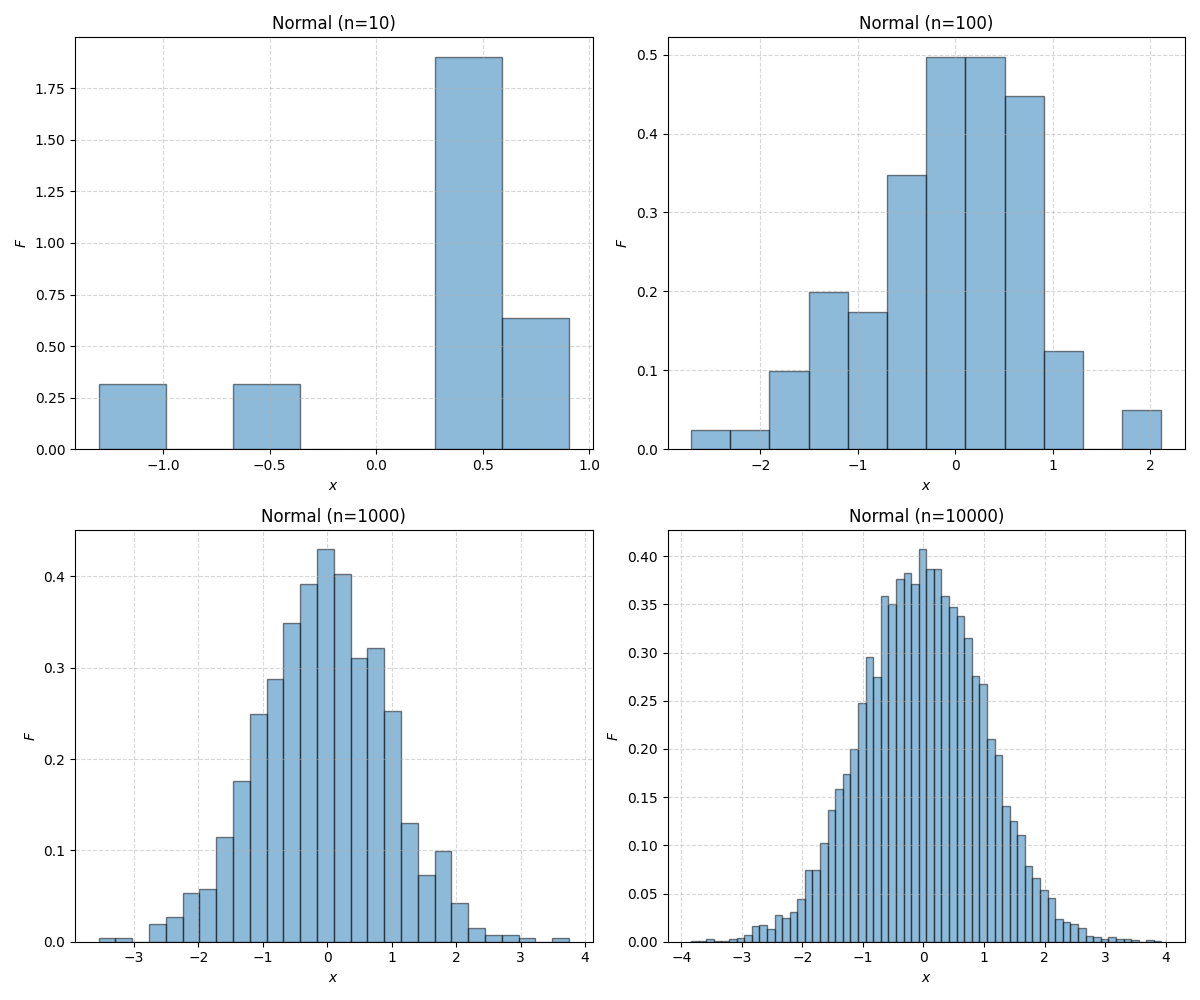
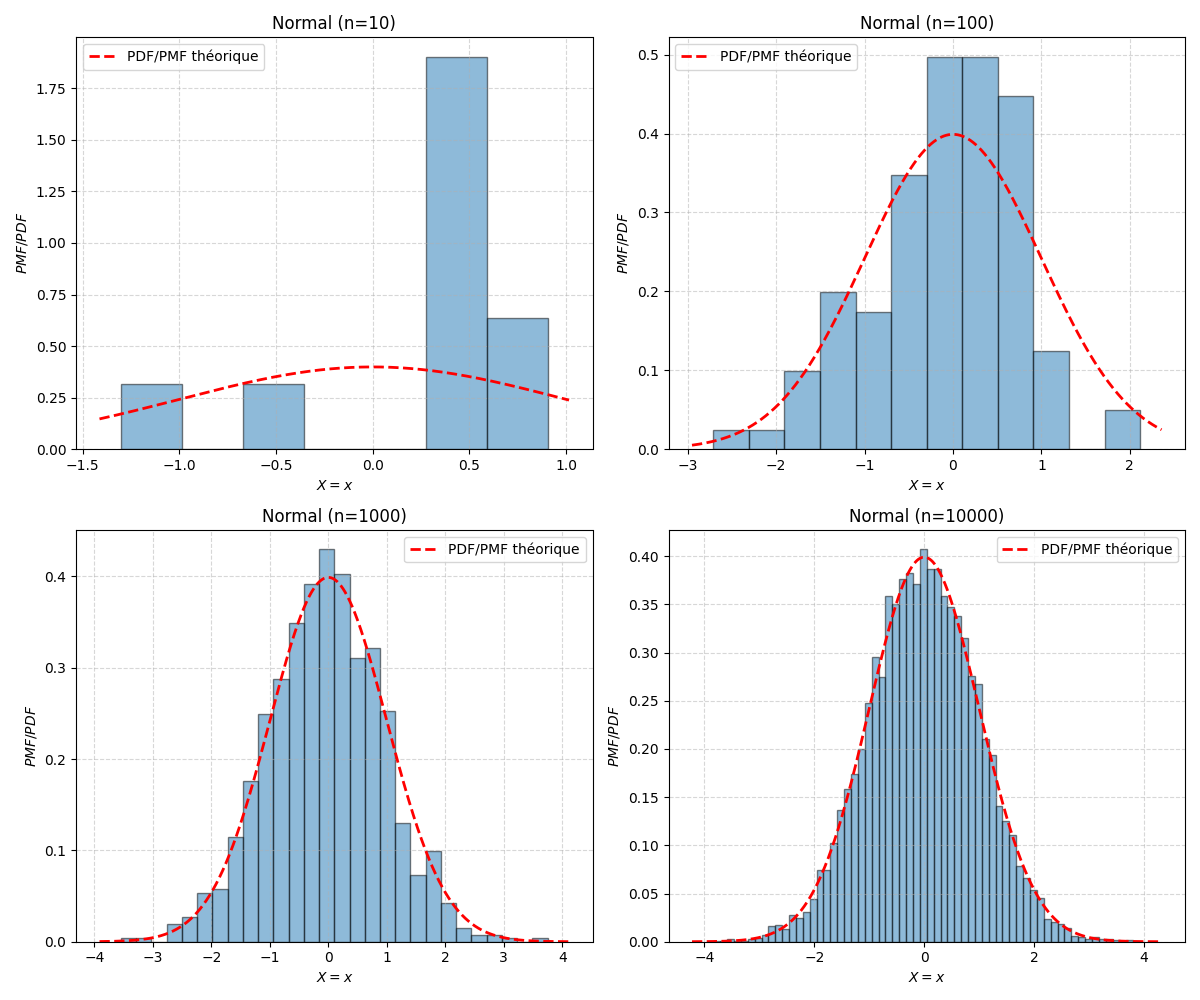
Add theorical PDF/PMF plot

diff --git a/TP01/tp_01.py b/TP01/tp_01.py
@@ -2,10 +2,6 @@ import numpy as np
 import matplotlib.pyplot as plt
 from matplotlib.ticker import MultipleLocator
 
-# TODO:
-#   - theorical law curve
-
-
 # ========================================================
 # CONSTANTS
 
@@ -26,12 +22,12 @@ def init_axes():
 
 
 def draw_on_axe(
-    axe, x, n, title, bins="auto", use_int_x_axes=False, start_at_zero=True, density=False
+    axe, x, n, title, bins="auto", use_int_x_axes=False, start_at_zero=True, func=None
 ):
-    axe.hist(x, bins=bins, edgecolor="black", alpha=0.5, density=density)
+    axe.hist(x, bins=bins, edgecolor="black", alpha=0.5, density=True)
     axe.set_title(f"{title} (n={n})")
-    axe.set_xlabel("$x$")
-    axe.set_ylabel("$F$")
+    axe.set_xlabel("$X = x$")
+    axe.set_ylabel("$PMF/PDF$")
     axe.grid(True, linestyle="--", alpha=0.5)
     if use_int_x_axes:
         axe.xaxis.set_major_locator(MultipleLocator(1))
@@ -39,12 +35,43 @@ def draw_on_axe(
         axe.set_xlim(left=0)
         axe.set_ylim(bottom=0)
 
+    if func is not None:
+        x_vals = np.linspace(axe.get_xlim()[0], axe.get_xlim()[1], 1000)
+        y_vals = func(x_vals)
 
-def print_x (x, n, esp):
-    print(f"n: {n:6}, 5 premières et 5 dernières valeurs: {x[:5]} ... {x[-5:]}")
+        if isinstance(y_vals, float) or isinstance(y_vals, int):
+            axe.axhline(
+                y=y_vals,
+                color="red",
+                linestyle="--",
+                linewidth=2,
+                label="PDF/PMF théorique",
+            )
+        else:
+            axe.plot(
+                x_vals,
+                y_vals,
+                color="red",
+                linestyle="--",
+                linewidth=2,
+                label="PDF/PMF théorique",
+            )
+        axe.legend()
+
+
+def format_value(val):
+    return str(val) if val.is_integer() else f"{val:.4}"
+
+
+def print_x(x, n, esp):
+    print(
+        f"n: {n:6}, 5 premières et 5 dernières valeurs: [{', '.join([format_value(val) for val in x[:5]])} ... {', '.join([format_value(val) for val in x[-5:]])}]"
+    )
     real = np.mean(x)
-    error = real - esp       
-    print(f"n: {n:6}, Espérance: {esp:.4f}, Moyenne constatée: {real:.4f}, Delta: {error:.4f}")
+    delta = real - esp
+    print(
+        f"n: {n:6}, Espérance théorique: {format_value(esp)}, Espérance constatée: {format_value(real)}, Delta: {format_value(delta)}"
+    )
 
 
 # ========================================================
@@ -56,9 +83,10 @@ def uniform_discrete():
     print("=== uniform_discrete ===")
     for i, n in enumerate(N_VALUES):
         MIN = 0
-        MAX = 20 
+        MAX = 20
         rng = np.random.default_rng(seed=SEED)
         x = rng.integers(low=MIN, high=MAX + 1, size=n)
+        uniform_pmf = lambda t_x: 1 / (MAX - MIN + 1)
         draw_on_axe(
             axes[i],
             x,
@@ -67,8 +95,9 @@ def uniform_discrete():
             bins=np.arange(-0.5, MAX + 1 + 0.5, 1),
             start_at_zero=False,
             use_int_x_axes=True,
+            func=uniform_pmf,
         )
-        print_x (x, n, (MIN + MAX) / 2)
+        print_x(x, n, (MIN + MAX) / 2)
     plt.tight_layout()
     plt.savefig("uniform_discrete.png")
 
@@ -80,8 +109,11 @@ def uniform_real():
         rng = np.random.default_rng(seed=SEED)
         # By default, rng.uniform return values in range [0.0;1.0] (include)
         x = rng.uniform(size=n)
-        draw_on_axe(axes[i], x, n, "Uniform Real", density=True)
-        print_x (x, n, (0.0 + 1.0) / 2)
+        MAX = 1
+        MIN = 0
+        uniform_pmf = lambda t_x: 1 / (MAX - MIN)
+        draw_on_axe(axes[i], x, n, "Uniform Real", func=uniform_pmf)
+        print_x(x, n, (0.0 + 1.0) / 2)
     plt.tight_layout()
     plt.savefig("uniform_real.png")
 
@@ -91,11 +123,13 @@ def exponential():
     print("\n=== exponential ===")
     for i, n in enumerate(N_VALUES):
         AVG = 1
+        LAMBDA = 1 / AVG
         # More AVG is high, more the distibution decrease quickly
         rng = np.random.default_rng(seed=SEED)
-        x = rng.exponential(scale=(1 / AVG), size=n)
-        draw_on_axe(axes[i], x, n, "Exponential", density=True)
-        print_x (x, n, AVG)
+        x = rng.exponential(scale=LAMBDA, size=n)
+        exp_pdf = lambda t_x: LAMBDA * np.exp(-LAMBDA * t_x)
+        draw_on_axe(axes[i], x, n, "Exponential", func=exp_pdf)
+        print_x(x, n, AVG)
     plt.tight_layout()
     plt.savefig("exponential.png")
 
@@ -108,8 +142,11 @@ def normal():
         SIGMA_VAR = 1
         rng = np.random.default_rng(seed=SEED)
         x = rng.normal(loc=MU_AVG, scale=SIGMA_VAR, size=n)
-        draw_on_axe(axes[i], x, n, "Normal", start_at_zero=False, density=True)
-        print_x (x, n, MU_AVG)
+        normal_pdf = lambda t_x: np.exp(-(((t_x - MU_AVG) / SIGMA_VAR) ** 2) / 2) / (
+            SIGMA_VAR * np.sqrt(2 * np.pi)
+        )
+        draw_on_axe(axes[i], x, n, "Normal", start_at_zero=False, func=normal_pdf)
+        print_x(x, n, MU_AVG)
     plt.tight_layout()
     plt.savefig("normal.png")
 
@@ -118,20 +155,26 @@ def binomial():
     axes = init_axes()
     print("\n=== binomial ===")
     for i, n in enumerate(N_VALUES):
-        TRIES = 10
+        N = 10
         P = 0.50
+        Q = 1 - P
         rng = np.random.default_rng(seed=SEED)
-        x = rng.binomial(p=P, n=TRIES, size=n)
+        x = rng.binomial(p=P, n=N, size=n)
+        normal_approx = lambda t_x: (1 / np.sqrt(2 * np.pi * N * P * Q)) * np.exp(
+            -0.5 * ((t_x - N * P) ** 2) / (N * P * Q)
+        )
+
         draw_on_axe(
             axes[i],
             x,
             n,
             "Binomial",
-            bins=np.arange(-0.5, TRIES + 1 + 0.5, 1),
+            bins=np.arange(-0.5, N + 1 + 0.5, 1),
             use_int_x_axes=True,
             start_at_zero=False,
+            func=normal_approx,
         )
-        print_x (x, n, TRIES * P)
+        print_x(x, n, N * P)
     plt.tight_layout()
     plt.savefig("binomial.png")
 
